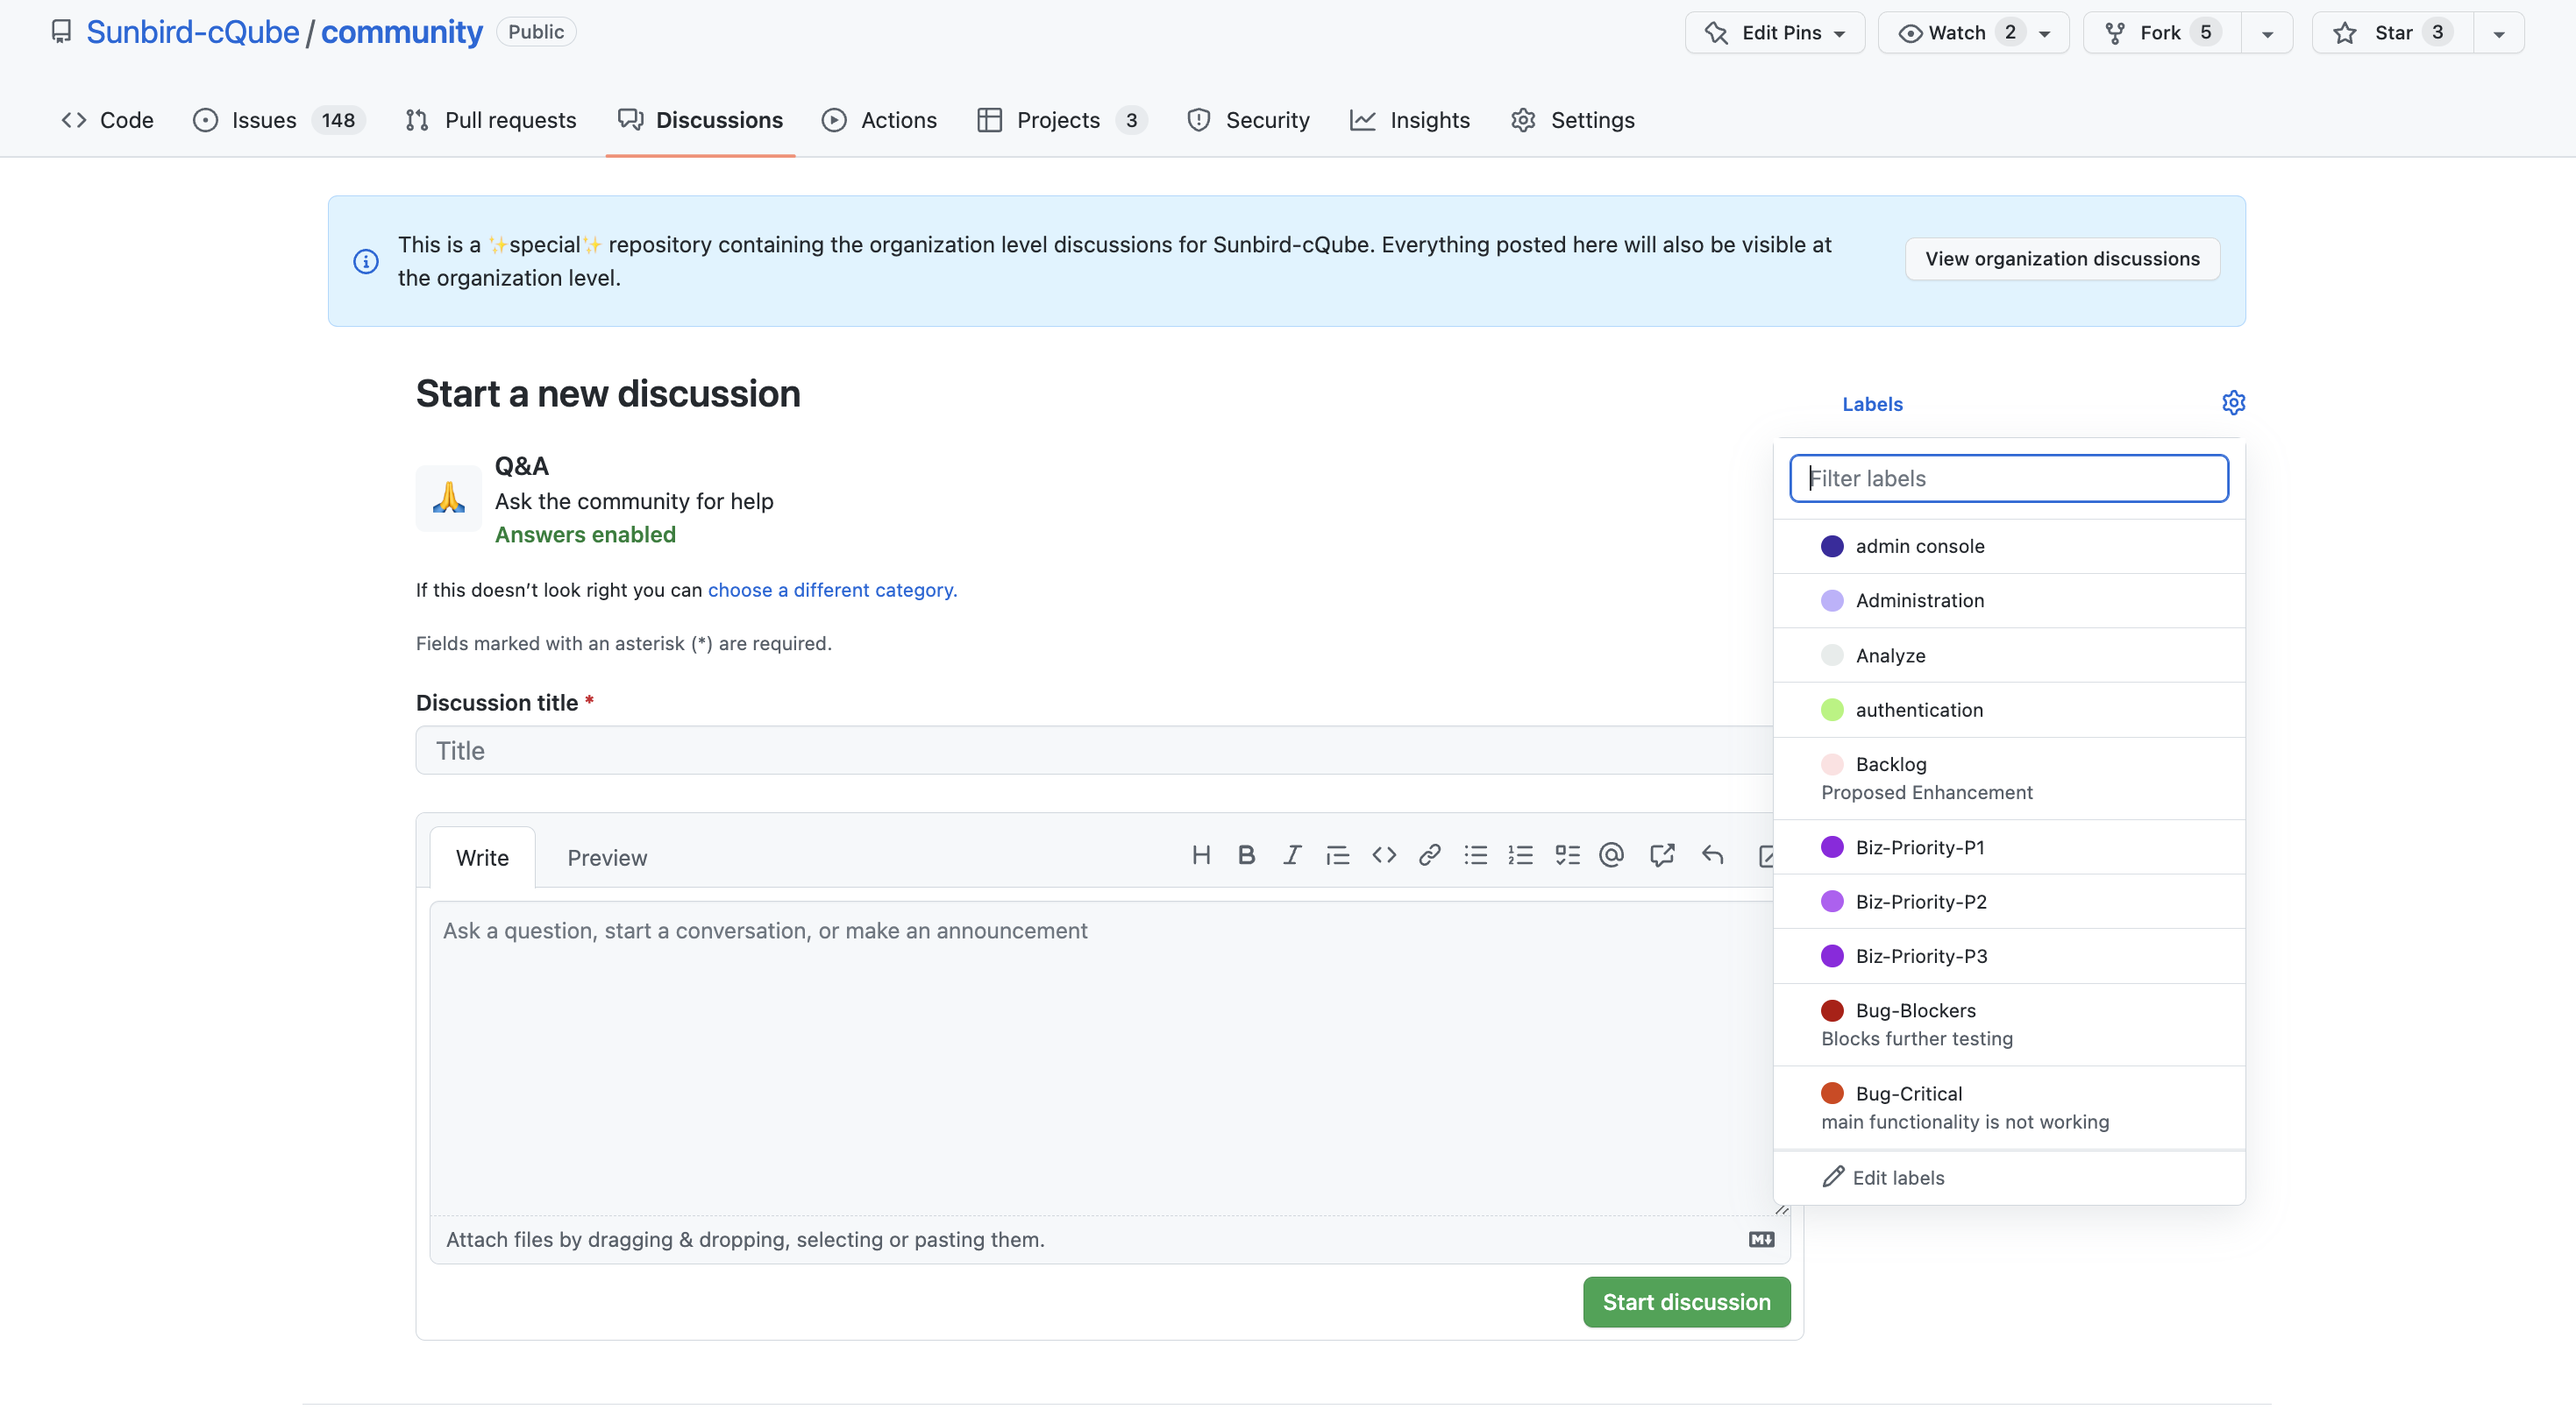
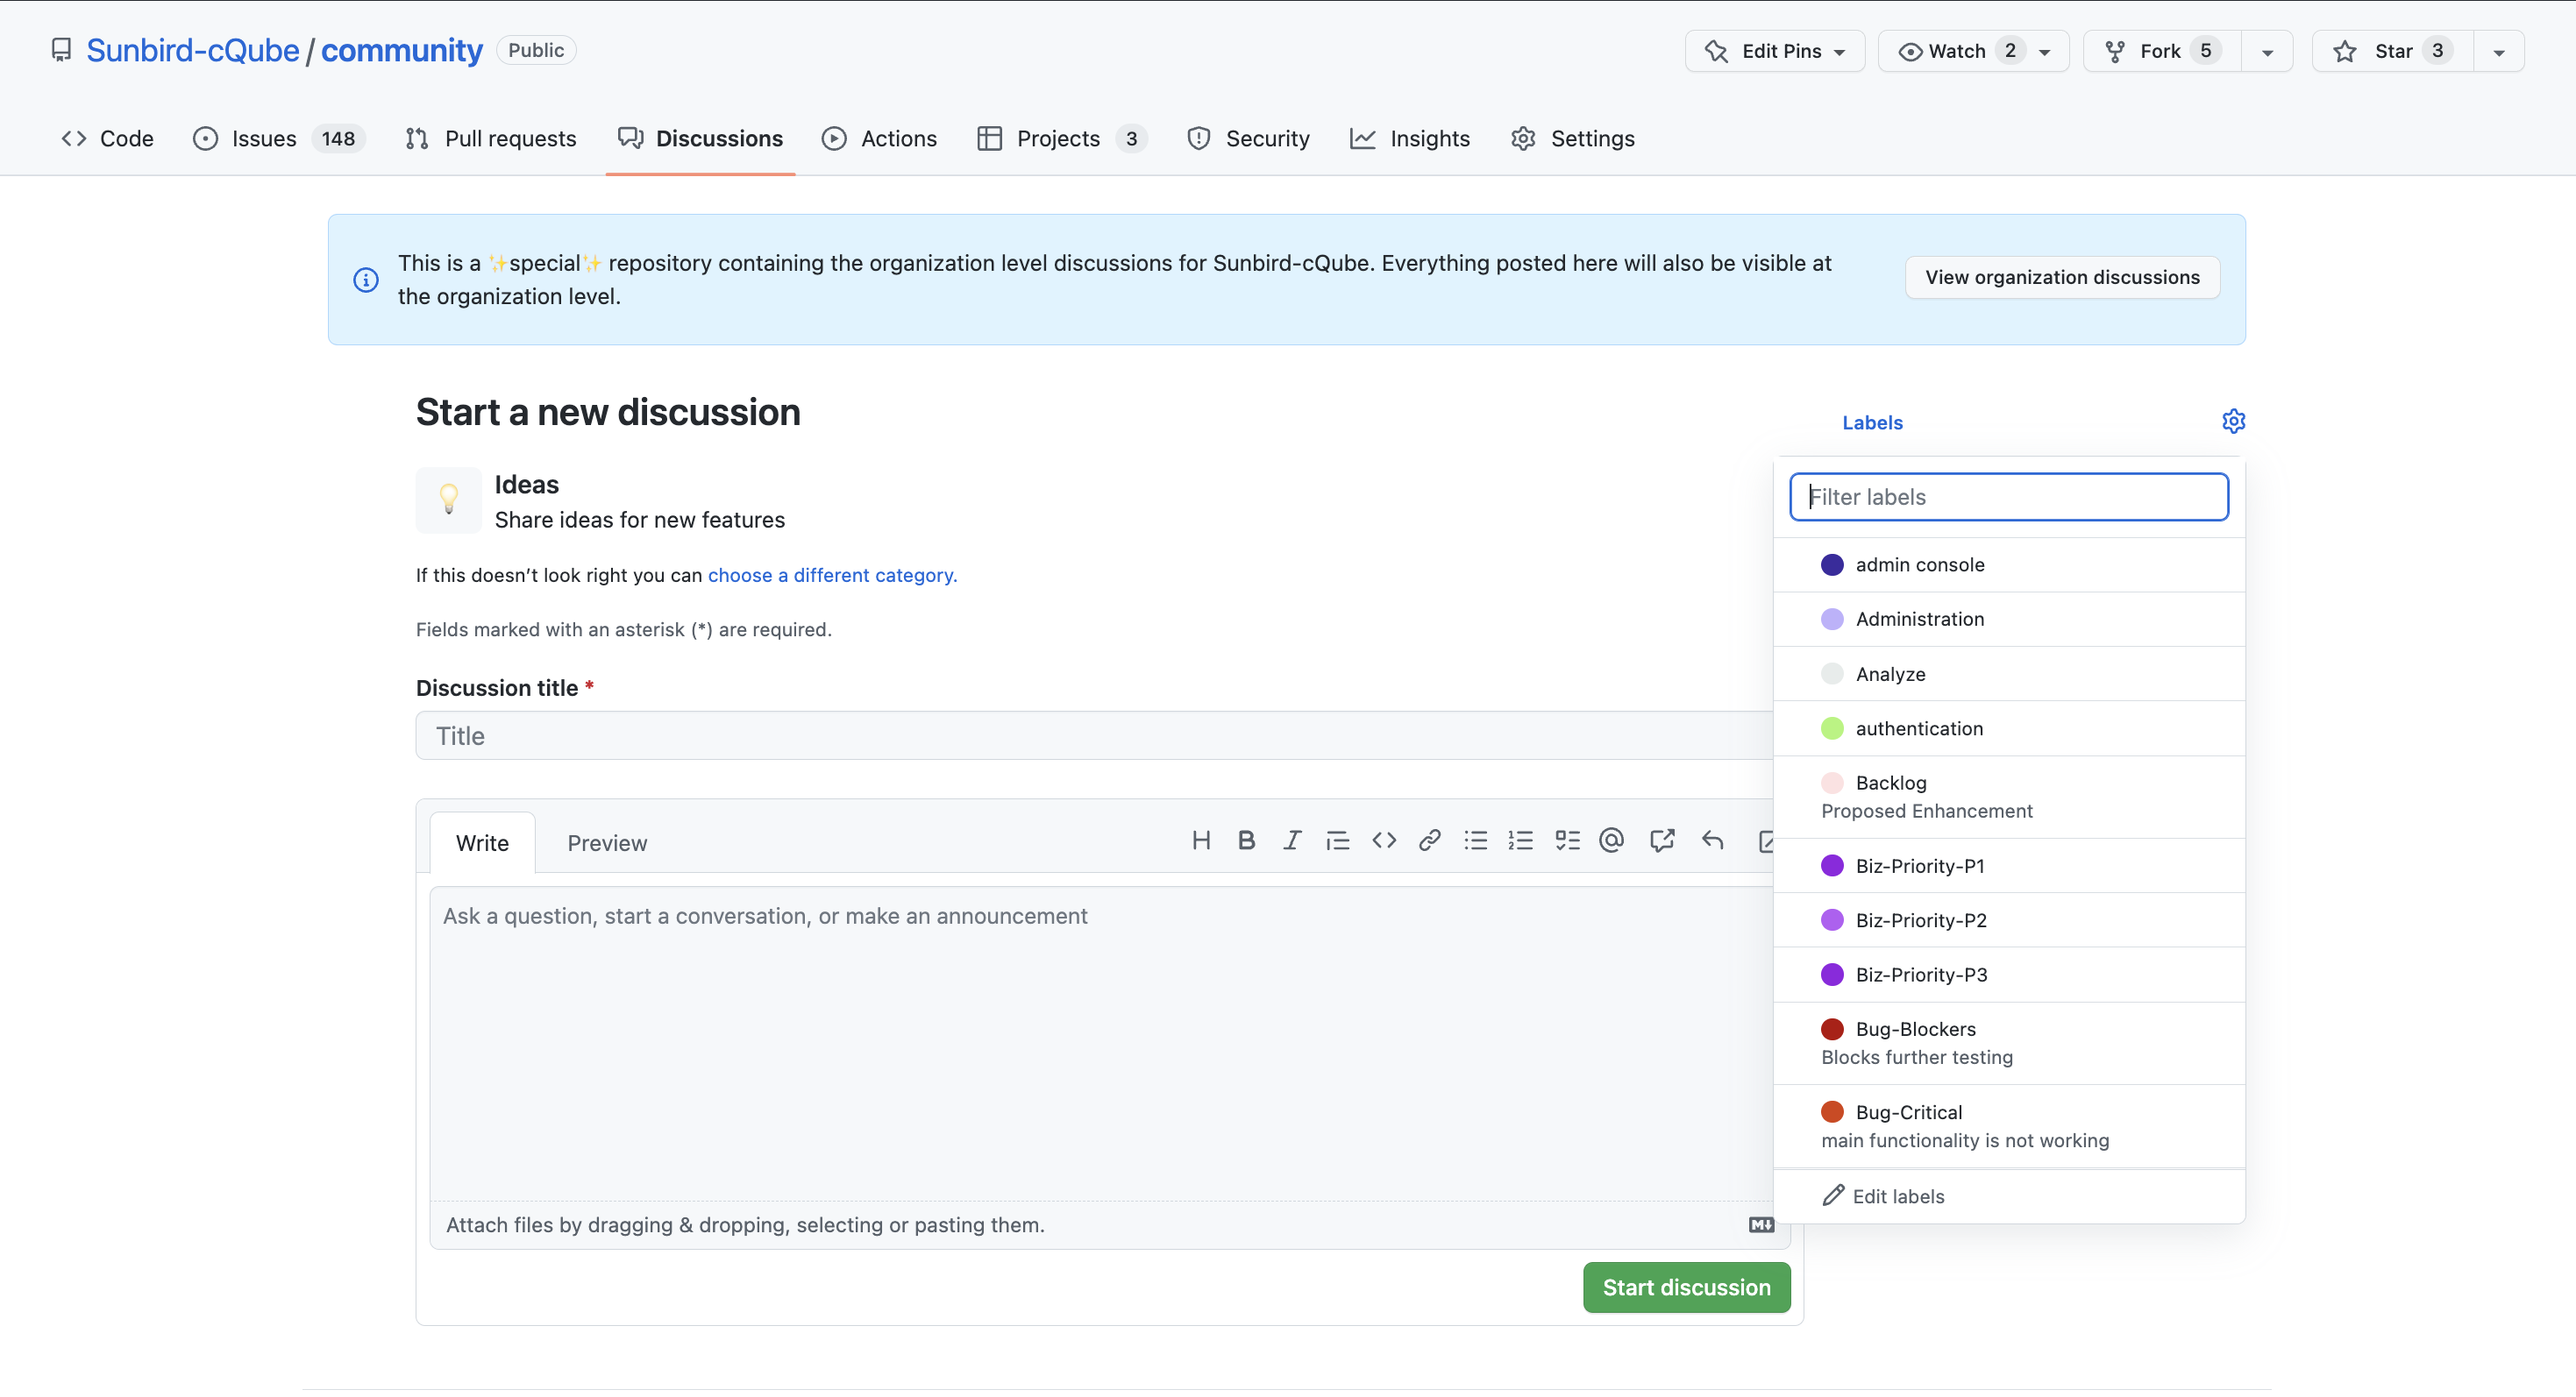
GITBOOK-201: No subject

diff --git a/standard-operating-procedure/suggesting-enhancements.md b/standard-operating-procedure/suggesting-enhancements.md
@@ -6,3 +6,33 @@ description: >-
 
 # Suggesting Enhancements
 
+Any new feature enhancement can be suggested by the cQube adopters based on the needs realised.&#x20;
+
+### Communication Tool
+
+All the requests for support should be posted as Ideas on the cQube Discussion Forum on GitHub - [Link](https://github.com/Sunbird-cQube/community/discussions/categories/ideas).
+
+### Suggesting Enhancements on GitHub
+
+A new discussion should be created in the GitHub Discussion Forum of cQube **only** if any similar discussion doesn't already exist or has been answered by the cQube Product Team. The unanswered / open discussions for cQube can be seen [here](https://github.com/Sunbird-cQube/community/discussions/categories/ideas?discussions\_q=category%3AIdeas+is%3Aopen) and the closed discussions can be seen [here](https://github.com/Sunbird-cQube/community/discussions/categories/ideas?discussions\_q=category%3AIdeas+is%3Aclosed).
+
+**Process to initiate an idea:**
+
+1. Go to the Ideas tab of cQube Discussion Forum on Github - [https://github.com/Sunbird-cQube/community/discussions/categories/ideas](https://github.com/Sunbird-cQube/community/discussions/categories/ideas)
+
+<figure><img src="../.gitbook/assets/image (23).png" alt=""><figcaption></figcaption></figure>
+
+2. Start a new discussion.
+3. Detail out the enhancement that you are suggesting with a title and description. You can add any images for context on the suggestion.
+
+<figure><img src="../.gitbook/assets/image (24).png" alt=""><figcaption></figcaption></figure>
+
+4. Attach relevant label(s) to the enhancement being suggested.
+
+<figure><img src="../.gitbook/assets/image.png" alt=""><figcaption></figcaption></figure>
+
+5. Click on 'Start Discussion'
+
+### Response from the cQube Product Team
+
+The cQube Product Team will get back within 7 working days post the enhancement has been suggested. If relevant, it will be included in the cQube roadmap with a timeline. The adopter who has suggested the enhancement will be able to track it on a JIRA ticket.

diff --git a/standard-operating-procedure/requesting-for-support.md b/standard-operating-procedure/requesting-for-support.md
@@ -10,7 +10,7 @@ Support may be required if the cQube adopter is stuck somewhere while setting up
 
 All the requests for support should be posted as Q\&A on the cQube Discussion Forum on GitHub - [Link](https://github.com/Sunbird-cQube/community/discussions/categories/q-a).
 
-### Requesting for Support through Q\&A
+### Requesting for Support on GitHub
 
 A new discussion should be created in the GitHub Discussion Forum of cQube **only** if any similar discussion doesn't already exist or has been answered by the cQube Product Team. The unanswered / open discussions for cQube can be seen [here](https://github.com/Sunbird-cQube/community/discussions/categories/q-a?discussions\_q=category%3AQ%26A+is%3Aopen) and the closed discussions can be seen [here](https://github.com/Sunbird-cQube/community/discussions/categories/q-a?discussions\_q=category%3AQ%26A+is%3Aclosed).
 
@@ -20,15 +20,16 @@ A new discussion should be created in the GitHub Discussion Forum of cQube **onl
 
 <figure><img src="../.gitbook/assets/image (6).png" alt=""><figcaption></figcaption></figure>
 
-2. Detail out the support that you need with a title and description. You can add any images for context on the request.
+2. Start a new discussion.
+3. Detail out the support that you need with a title and description. You can add any images for context on the request.
 
 <figure><img src="../.gitbook/assets/image (2).png" alt=""><figcaption></figcaption></figure>
 
-3. Attach relevant label(s) to the support being requested.
+4. Attach relevant label(s) to the support being requested.
 
-<figure><img src="../.gitbook/assets/image.png" alt=""><figcaption></figcaption></figure>
+<figure><img src="../.gitbook/assets/image (3).png" alt=""><figcaption></figcaption></figure>
 
-4. Click on 'Start Discussion'
+5. Click on 'Start Discussion'
 
 ### Response from the cQube Product Team
 

diff --git a/data-ingestion-and-processing/step-wise-ingestion-process.md b/data-ingestion-and-processing/step-wise-ingestion-process.md
@@ -76,7 +76,7 @@ API Endpoint:&#x20;
 
 HTTP Method: POST
 
-<figure><img src="../.gitbook/assets/image (3).png" alt=""><figcaption><p>Ingestion of Events</p></figcaption></figure>
+<figure><img src="../.gitbook/assets/image (3) (1).png" alt=""><figcaption><p>Ingestion of Events</p></figcaption></figure>
 
 <figure><img src="../.gitbook/assets/image (14).png" alt=""><figcaption><p>Ingestion of Dimensions</p></figcaption></figure>
 

diff --git a/installation-and-upgradation/step-wise-installation-process.md b/installation-and-upgradation/step-wise-installation-process.md
@@ -75,7 +75,7 @@ For windows:
 
 `cd cqube-devops/ && git checkout dev`
 
-<figure><img src="../.gitbook/assets/image (3) (1).png" alt=""><figcaption></figcaption></figure>
+<figure><img src="../.gitbook/assets/image (3) (1) (2).png" alt=""><figcaption></figcaption></figure>
 
 **Step - 4:** Give the following permissions to the install.sh file
 
